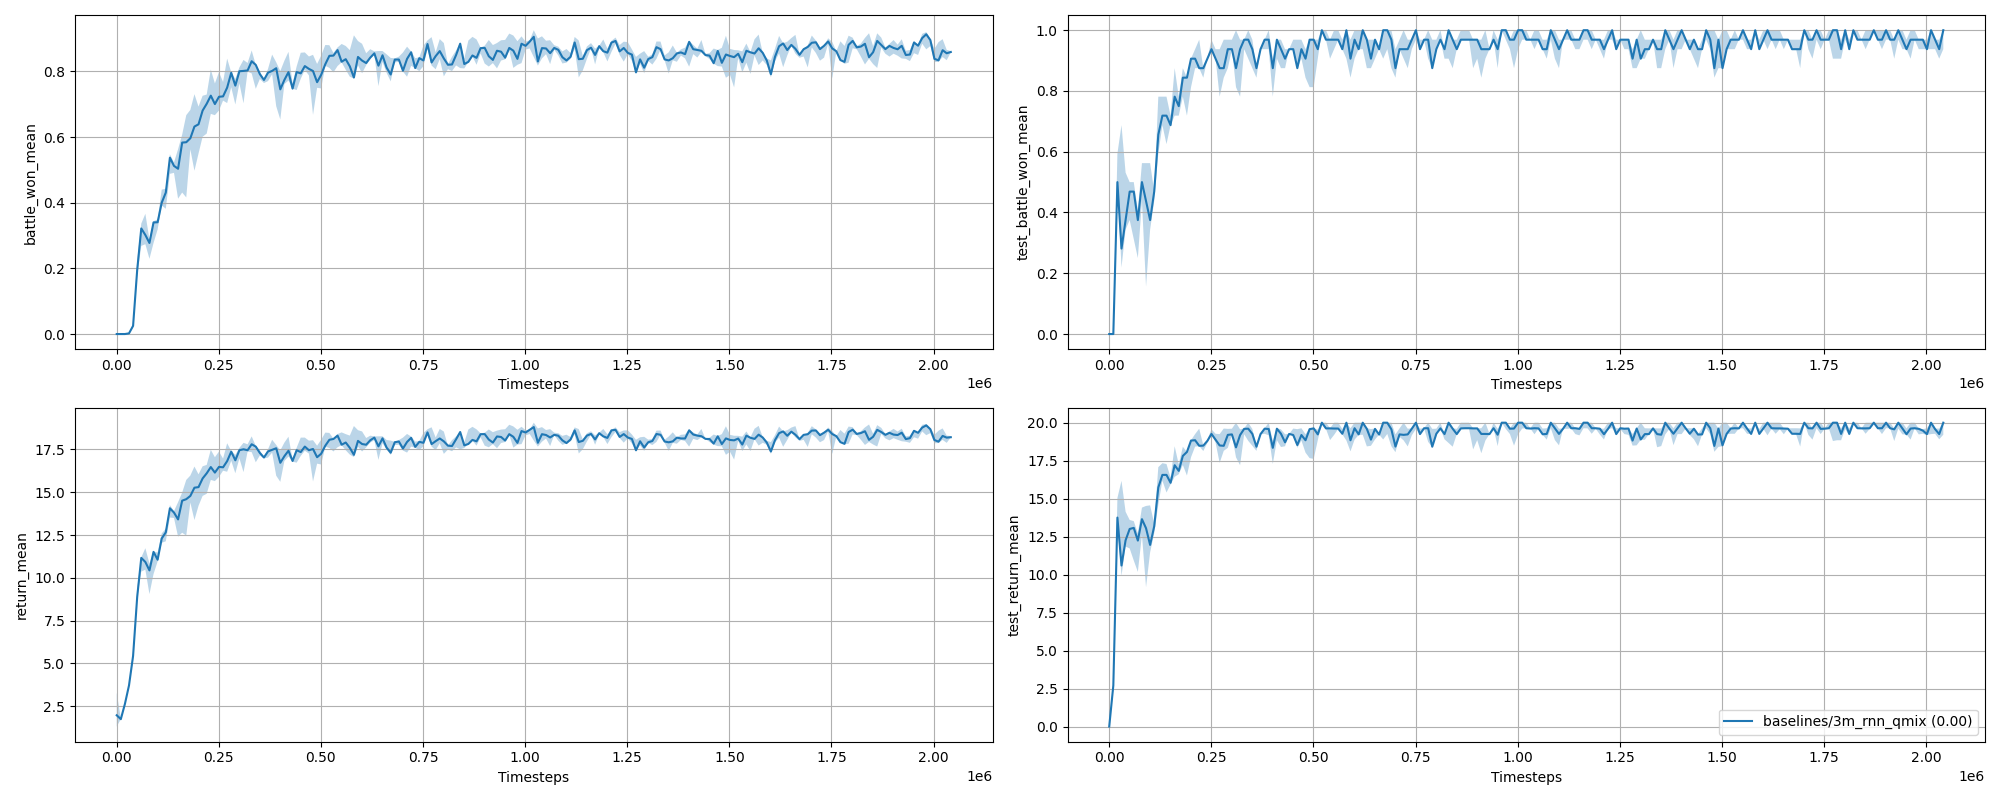
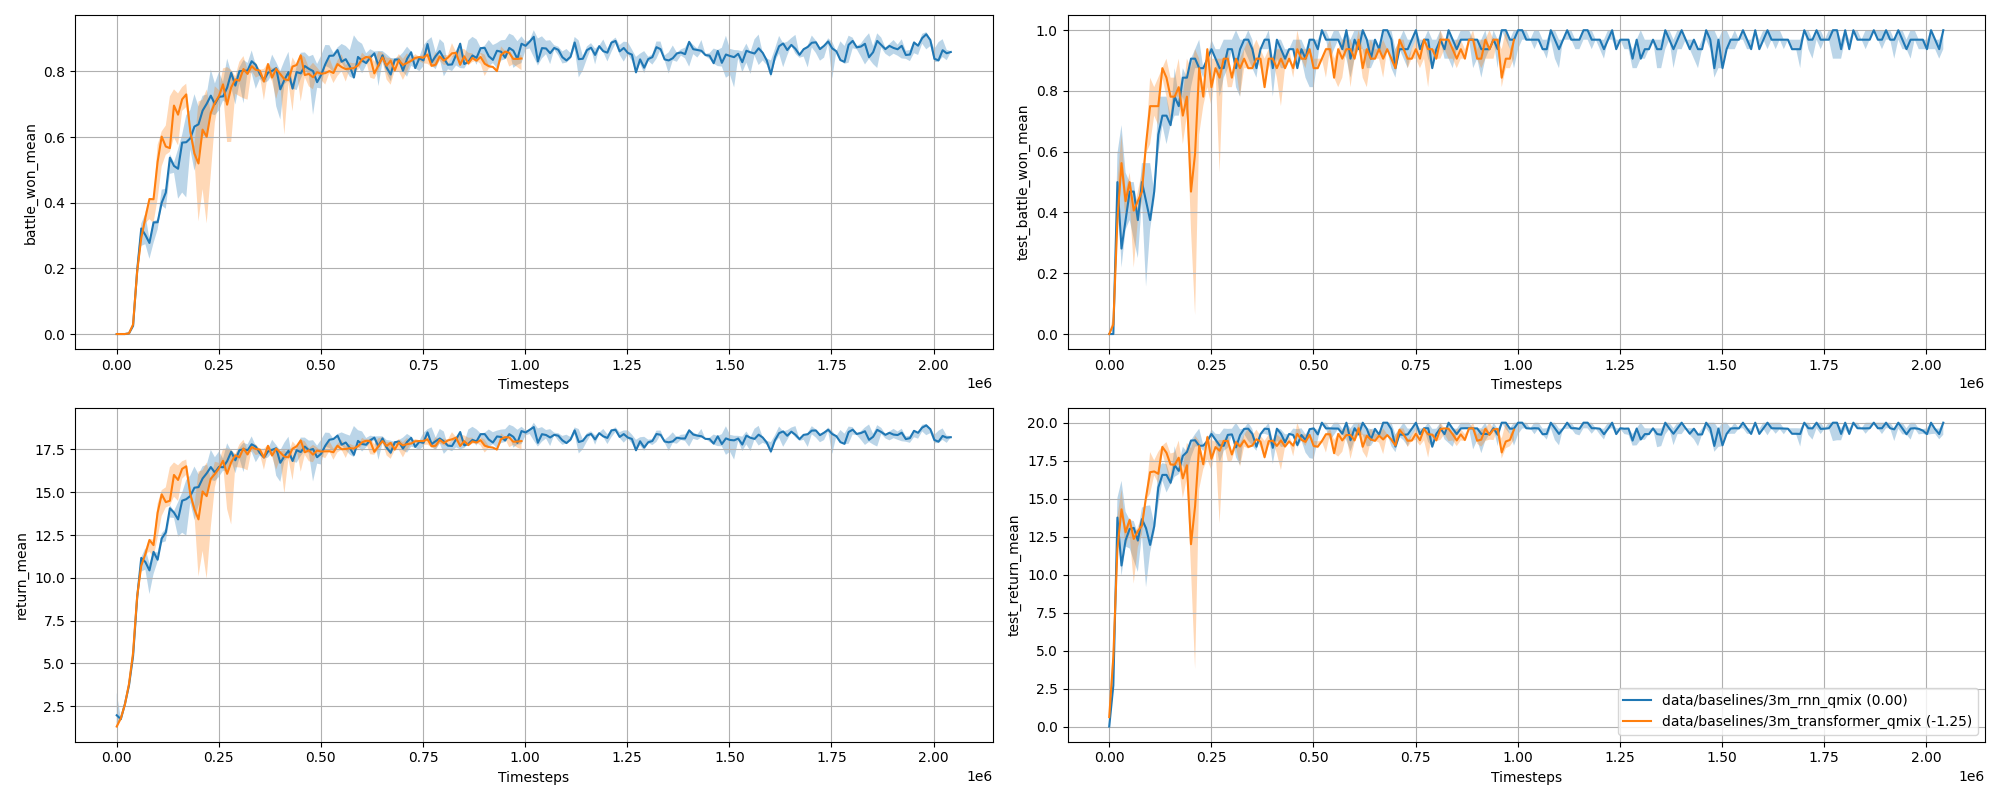
Forward parallel implementation for learning

diff --git a/src/controllers/basic_controller_transformer.py b/src/controllers/basic_controller_transformer.py
@@ -30,13 +30,14 @@ class BasicMACTransformer:
         # TODO remove this freeze_rnn from here
         agent_inputs = self._build_inputs(ep_batch, t)
 
-        agent_outs = self.agent(agent_inputs)
+        if t == -1:
+            agent_outs = self.agent(agent_inputs, causal=True)
+            agent_outs = th.movedim(agent_outs.view(ep_batch.batch_size, self.n_agents, ep_batch.max_seq_length, -1), 2, 1)
+        else:
+            agent_outs = self.agent(agent_inputs)
+            agent_outs = agent_outs.view(ep_batch.batch_size, self.n_agents, t+1, -1) # redo the reshaping
 
-        # Softmax the agent outputs if they're policy logits
-        if self.agent_output_type == "pi_logits":
-            raise NotImplementedError("This is not supported yet for Transformers!")
-
-        return agent_outs.view(ep_batch.batch_size, self.n_agents, t+1, -1) # redo the reshaping
+        return agent_outs
 
     def init_hidden(self, batch_size):
         # just for legacy usage
@@ -60,28 +61,45 @@ class BasicMACTransformer:
     def _build_agents(self, input_shape):
         self.agent = agent_REGISTRY[self.args.agent](input_shape, self.args)
 
-    def _build_inputs(self, batch, t):
+    def _build_inputs(self, batch, t=-1):
         # Assumes homogenous agents with flat observations.
         # Other MACs might want to e.g. delegate building inputs to each agent
         bs = batch.batch_size
         inputs = []
-        inputs.append(batch["obs"][:, :(t+1)])  # considers the whole sequence of inputs until current ts
 
-        if self.args.obs_last_action:
-            zeros_array = th.zeros_like(batch["actions_onehot"][:, t]).unsqueeze(1)
-            if t == 0:
-                inputs.append(zeros_array)
-            else:
+        if t == -1: # then we parse the whole batch of sequences at once, applying causal mask
+            inputs.append(batch["obs"])  # considers the whole sequence of inputs until current ts
+
+            if self.args.obs_last_action:
                 # inputs actions taken in prevous timesteps. Current timestemp actions are
-                inputs.append(th.cat([batch["actions_onehot"][:, :t], zeros_array], dim=1))
+                inputs.append(batch["actions_onehot"])
 
-        if self.args.obs_agent_id:
-            inputs.append(th.eye(self.n_agents, device=batch.device).unsqueeze(0).expand(bs, t+1, -1, -1))
+            if self.args.obs_agent_id:
+                inputs.append(th.eye(self.n_agents, device=batch.device).unsqueeze(0).expand(bs, batch.max_seq_length, -1, -1))
 
-        inputs = [th.movedim(x, 2, 1) for x in inputs] # move number of agents to second dimension
+            inputs = [th.movedim(x, 2, 1) for x in inputs] # move number of agents to second dimension
+            inputs = th.cat([x.reshape(bs*self.n_agents, batch.max_seq_length, -1) for x in inputs], dim=2)
 
-        # bs*self.n_agents may be kept, as observations drawn for each agent do not have to change
-        inputs = th.cat([x.reshape(bs*self.n_agents, t+1, -1) for x in inputs], dim=2)
+        else:
+            inputs.append(batch["obs"][:, :(t+1)])  # considers the whole sequence of inputs until current ts
+
+            if self.args.obs_last_action:
+                zeros_array = th.zeros_like(batch["actions_onehot"][:, t]).unsqueeze(1)
+                if t == 0:
+                    inputs.append(zeros_array)
+                else:
+                    # inputs actions taken in prevous timesteps. Current timestemp actions are
+                    inputs.append(th.cat([batch["actions_onehot"][:, :t], zeros_array], dim=1))
+
+            if self.args.obs_agent_id:
+                inputs.append(th.eye(self.n_agents, device=batch.device).unsqueeze(0).expand(bs, t+1, -1, -1))
+
+            inputs = [th.movedim(x, 2, 1) for x in inputs] # move number of agents to second dimension
+
+            # bs*self.n_agents may be kept, as observations drawn for each agent do not have to change
+            inputs = th.cat([x.reshape(bs*self.n_agents, t+1, -1) for x in inputs], dim=2)
+
+
         return inputs
 
     def _get_input_shape(self, scheme):

diff --git a/research/qmix_tl.py b/research/qmix_tl.py
@@ -2,28 +2,29 @@ from main_plot import generate_training_figure
 
 
 ############ BLOCK 1 ############
-generate_training_figure(["baselines/3m_rnn_qmix", 
+generate_training_figure(["data/baselines/3m_rnn_qmix", 
+                          "data/baselines/3m_transformer_qmix",
                           # "3m_from-3m_rnn_qmix_unfreeze0.2", 
                           # "3m_from-8m_rnn_qmix_unfreeze0.2",
                           # "3m_from-25m_rnn_qmix_unfreeze0.2", 
                         #   "3m_from-5m_rnn_qmix_unfreeze0.2" # currently it doesnt train properly
                           ], label="tl_qmix/3m_rnn_qmix.png", 
-                          only_last_legend=True, baseline="baselines/3m_rnn_qmix", median=True)
+                          only_last_legend=True, baseline="data/baselines/3m_rnn_qmix", median=True)
 
 # generate_training_figure(["3m_rnn_qmix", "3m_from-2s3z_rnn_qmix_unfreeze0.2", "3m_from-3s_rnn_qmix_unfreeze0.2",
 #                           "3m_from-2m_rnn_qmix_unfreeze0.2"], label="tl_qmix/3m_rnn_qmix_ext.png", 
 #                           only_last_legend=True, baseline="3m_rnn_qmix", median=True)
 
-generate_training_figure(["baselines/8m_rnn_qmix", 
-                          # "8m_from-3m_rnn_qmix_unfreeze0.2", 
-                          # "8m_from-8m_rnn_qmix_unfreeze0.2",
-                          # "8m_from-25m_rnn_qmix_unfreeze0.2", 
-                          # "8m_from-3m-8m_rnn_qmix_unfreeze0.2_additive", 
-                          # "8m_from-3m-8m_rnn_qmix_unfreeze0.2_mean"
-                        #   "8m_from-5m_rnn_qmix_direct"
-                          ], 
-                          label="tl_qmix/8m_rnn_qmix.png", only_last_legend=True, 
-                          baseline="baselines/8m_rnn_qmix", median=True)
+# generate_training_figure(["baselines/8m_rnn_qmix", 
+#                           # "8m_from-3m_rnn_qmix_unfreeze0.2", 
+#                           # "8m_from-8m_rnn_qmix_unfreeze0.2",
+#                           # "8m_from-25m_rnn_qmix_unfreeze0.2", 
+#                           # "8m_from-3m-8m_rnn_qmix_unfreeze0.2_additive", 
+#                           # "8m_from-3m-8m_rnn_qmix_unfreeze0.2_mean"
+#                         #   "8m_from-5m_rnn_qmix_direct"
+#                           ], 
+#                           label="tl_qmix/8m_rnn_qmix.png", only_last_legend=True, 
+#                           baseline="baselines/8m_rnn_qmix", median=True)
 
 
 # generate_training_figure(["25m_rnn_qmix", "25m_from-3m_rnn_qmix_unfreeze0.2", "25m_from-8m_rnn_qmix_unfreeze0.2",

diff --git a/src/learners/q_learner_transformer.py b/src/learners/q_learner_transformer.py
@@ -49,29 +49,38 @@ class QLearnerTransformer:
             
         # Calculate estimated Q-Values
         # TODO Change so that the user can choose whether to train on the whole sequence of timesteps or just the last one!
-        mac_out = []
-        for t in range(batch.max_seq_length):
-            agent_outs = self.mac.forward(batch, t=t)
-            agent_outs = agent_outs[:,:,-1,:] # only consider the output for the last timestep...
+        # TODO this is not optimized...
+        
+        mac_out = self.mac.forward(batch, t=-1)
 
-            mac_out.append(agent_outs)
-        mac_out = th.stack(mac_out, dim=1)  # Concat over time
+        if False:
+            mac_out = []
+            for t in range(batch.max_seq_length):
+                agent_outs = self.mac.forward(batch, t=t)
+                agent_outs = agent_outs[:,:,-1,:] # only consider the output for the last timestep...
+
+                mac_out.append(agent_outs)
+            mac_out = th.stack(mac_out, dim=1)  # Concat over time
 
         # Pick the Q-Values for the actions taken by each agent
         chosen_action_qvals = th.gather(mac_out[:, :-1], dim=3, index=actions).squeeze(3)  # Remove the last dim
 
         # Calculate the Q-Values necessary for the target
-        target_mac_out = []
-        for t in range(batch.max_seq_length):
-            target_agent_outs = self.target_mac.forward(batch, t=t)
+        if False:
+            target_mac_out = []
+            for t in range(batch.max_seq_length):
+                target_agent_outs = self.target_mac.forward(batch, t=t)
 
-            # TODO change as well
-            target_agent_outs = target_agent_outs[:,:,-1,:] 
+                # TODO change as well
+                target_agent_outs = target_agent_outs[:,:,-1,:] 
 
-            target_mac_out.append(target_agent_outs)
+                target_mac_out.append(target_agent_outs)
 
-        # We don't need the first timesteps Q-Value estimate for calculating targets
-        target_mac_out = th.stack(target_mac_out[1:], dim=1)  # Concat across time
+            # We don't need the first timesteps Q-Value estimate for calculating targets
+            target_mac_out = th.stack(target_mac_out[1:], dim=1)  # Concat across time
+
+        target_mac_out = self.target_mac.forward(batch, t=-1)
+        target_mac_out = target_mac_out[:, 1:] # Remove the first timestep
 
         # Mask out unavailable actions
         target_mac_out[avail_actions[:, 1:] == 0] = -9999999

diff --git a/src/modules/agents/transformer_agent.py b/src/modules/agents/transformer_agent.py
@@ -21,10 +21,16 @@ class TransformerAgent(nn.Module):
         # TODO should I initialize weights in a better way?
 
 
-    def forward(self, inputs):
+    def forward(self, inputs, causal:bool=False):
         x = F.relu(self.fc1(inputs))
 
-        x = self.transformer(x, x)
+        if causal:
+            mask = self.transformer.generate_square_subsequent_mask(x.size(1)).to(x.device)
+            mask[mask == 0] = float('-inf')
+            mask = th.triu(mask, diagonal=1)
+            x = self.transformer(x, x, src_mask=mask, tgt_mask=mask, src_is_causal=True, tgt_is_causal=True)
+        else:
+            x = self.transformer(x, x)
 
         q = self.fc2(x)
 

diff --git a/research/main_plot.py b/research/main_plot.py
@@ -65,4 +65,4 @@ def validate_baselines():
         generate_training_figure([new_file, old_file], label="validation/" + file + "_validation.png", 
                                  only_last_legend=True, baseline=new_file, median=True)
 
-validate_baselines()
+# validate_baselines()
